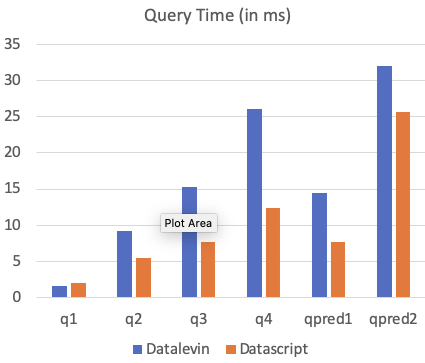
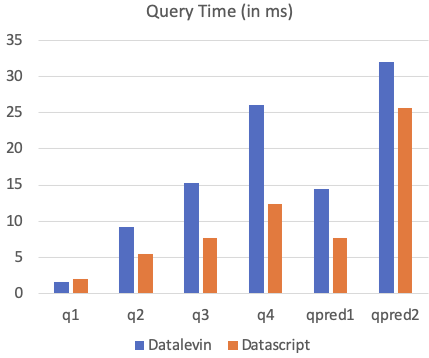
correct graph

diff --git a/README.md b/README.md
@@ -28,8 +28,8 @@ them, Datalevin is extensively tested with property-based testing. Running the
 benchmark suite of Datascript, here is how it looks.
 
 <p align="center">
-<img src="bench/datalevin-bench-query-07-15-2020.png" alt="query benchmark" height="200"></img>
-<img src="bench/datalevin-bench-write-07-15-2020.png" alt="write benchmark" height="200"></img>
+<img src="bench/datalevin-bench-query-07-15-2020.png" alt="query benchmark" height="240"></img>
+<img src="bench/datalevin-bench-write-07-15-2020.png" alt="write benchmark" height="240"></img>
 </p>
 
 Considering that we are comparing a disk store with a memory store, the query time of Datalevin is not bad.
